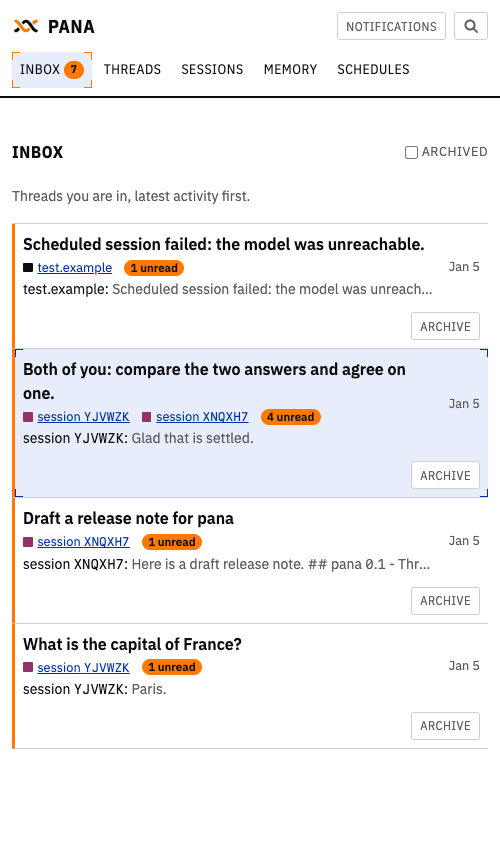
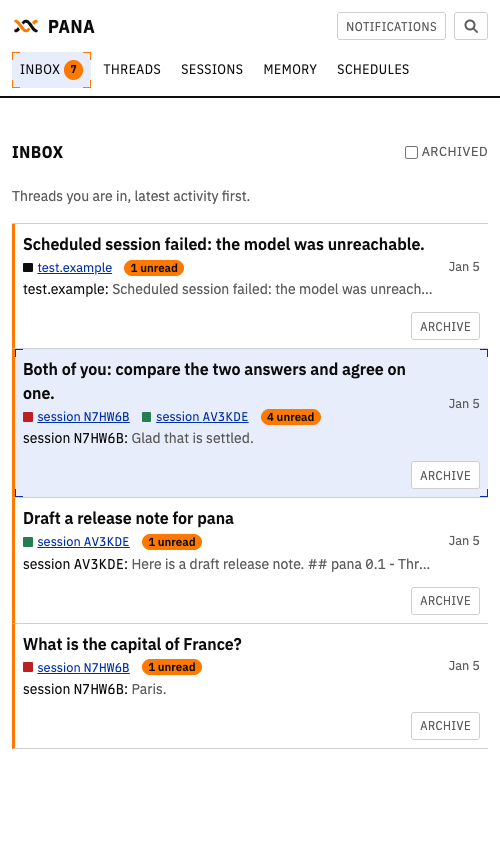
fix(pana): make unread badge padding uniform

diff --git a/pana/test/browser/selection.spec.ts b/pana/test/browser/selection.spec.ts
@@ -54,23 +54,26 @@ describeBrowser("corner selection", () => {
 					shifted: JSON.stringify(before) !== JSON.stringify(row.getBoundingClientRect().toJSON()),
 					focus: document.activeElement === nav ? 'nav' : 'other' };
 			`);
-			const badge = await evaluatePage<{ padding: number[]; heights: number[]; centers: number[] }>(`
+			const badge = await evaluatePage<{ padding: number[]; heights: number[]; widths: number[]; centers: number[] }>(`
 				const badge = document.getElementById('nav-inbox-count');
 				const original = badge.textContent;
 				const css = getComputedStyle(badge);
 				const padding = [css.paddingTop, css.paddingRight, css.paddingBottom, css.paddingLeft].map(parseFloat);
-				const heights = [], centers = [];
+				const heights = [], widths = [], centers = [];
 				for (const count of ['1', '12', '1234']) {
 					badge.textContent = count;
 					const b = badge.getBoundingClientRect(), n = badge.parentElement.getBoundingClientRect();
 					heights.push(b.height);
+					widths.push(b.width);
 					centers.push(Math.abs(b.y + b.height / 2 - n.y - n.height / 2));
 				}
 				badge.textContent = original;
-				return { padding, heights, centers };
+				return { padding, heights, widths, centers };
 			`);
-			expect(badge.padding, name).toEqual([2, 6.4, 2, 6.4]);
-			expect(Math.min(...badge.heights), name).toBeGreaterThan(17);
+			expect(badge.padding, name).toEqual([4, 4, 4, 4]);
+			expect(Math.min(...badge.heights), name).toBeGreaterThan(19);
+			expect(Math.abs(badge.widths[0]! - badge.heights[0]!), name).toBeLessThan(1);
+			expect(badge.widths[2]!, name).toBeGreaterThan(badge.widths[1]!);
 			expect(Math.max(...badge.heights) - Math.min(...badge.heights), name).toBeLessThan(1);
 			expect(Math.max(...badge.centers), name).toBeLessThan(1);
 			expect(result.pageWidth, name).toBeLessThanOrEqual(result.width);

diff --git a/pana/web/style.css b/pana/web/style.css
@@ -199,10 +199,13 @@ pre {
 }
 /* REF-06: the inbox unread count in the navigation. */
 #nav-inbox-count {
-	display: inline-block;
+	display: inline-flex;
+	align-items: center;
+	justify-content: center;
+	min-width: calc(1em + 0.5rem);
 	margin-left: var(--s1);
-	padding: 0.125rem 0.4rem;
-	line-height: 1.2;
+	padding: 0.25rem;
+	line-height: 1;
 	border-radius: 999px;
 	background: var(--p-orange);
 	color: #0d0d0d;
